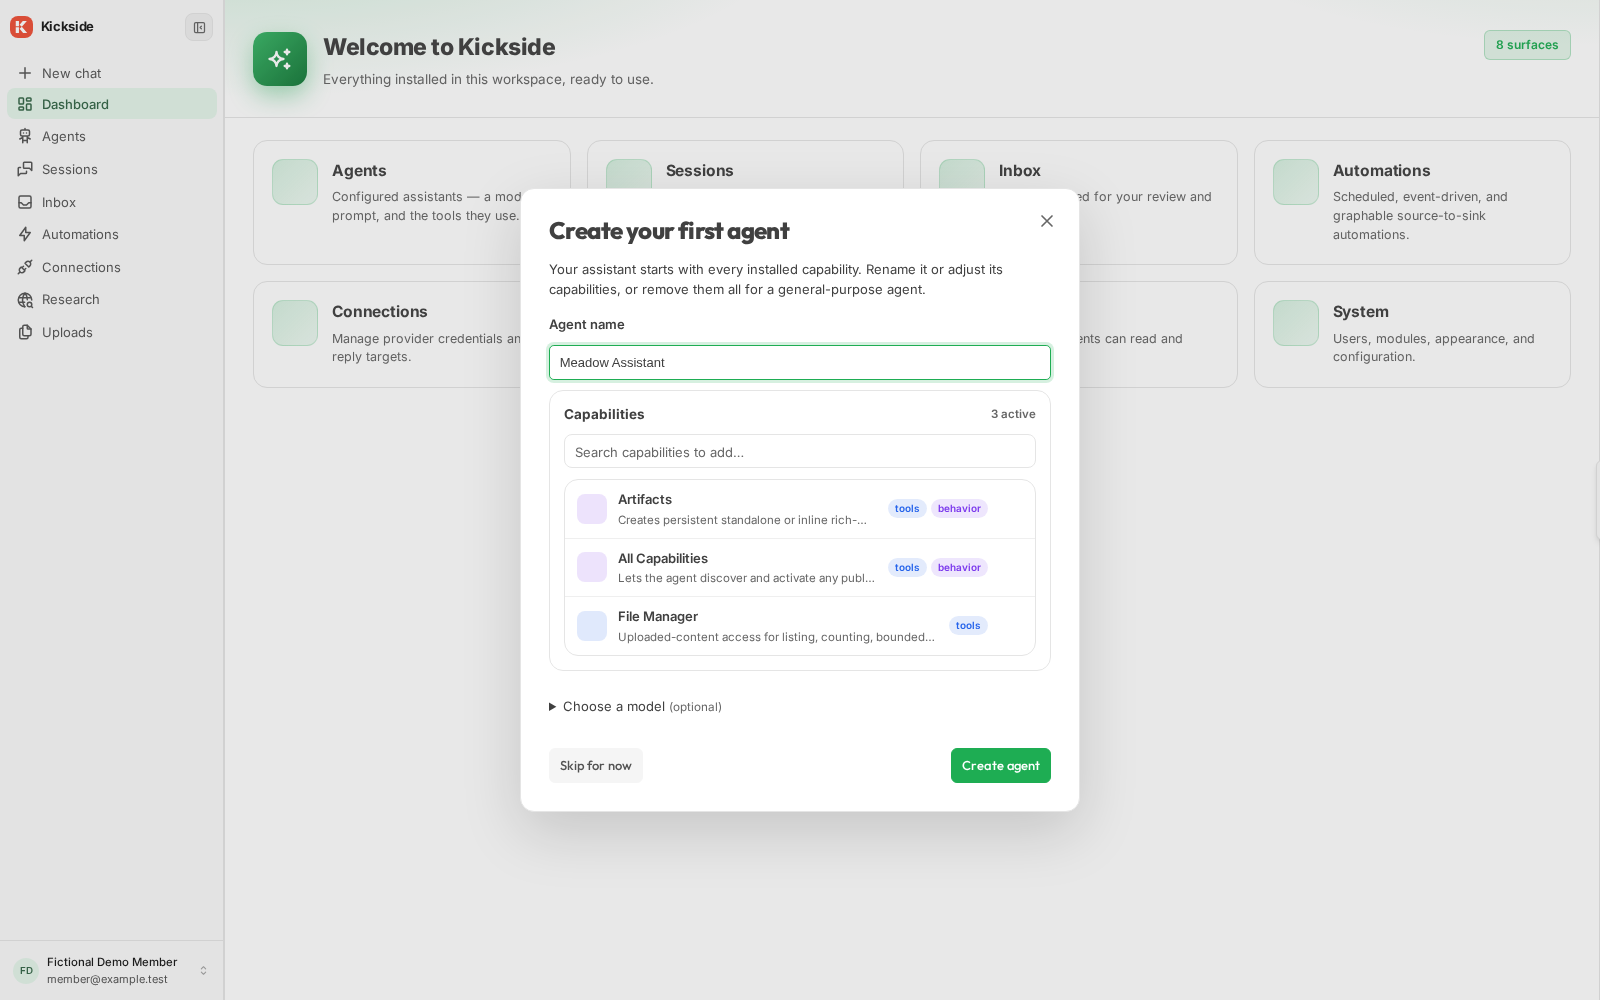
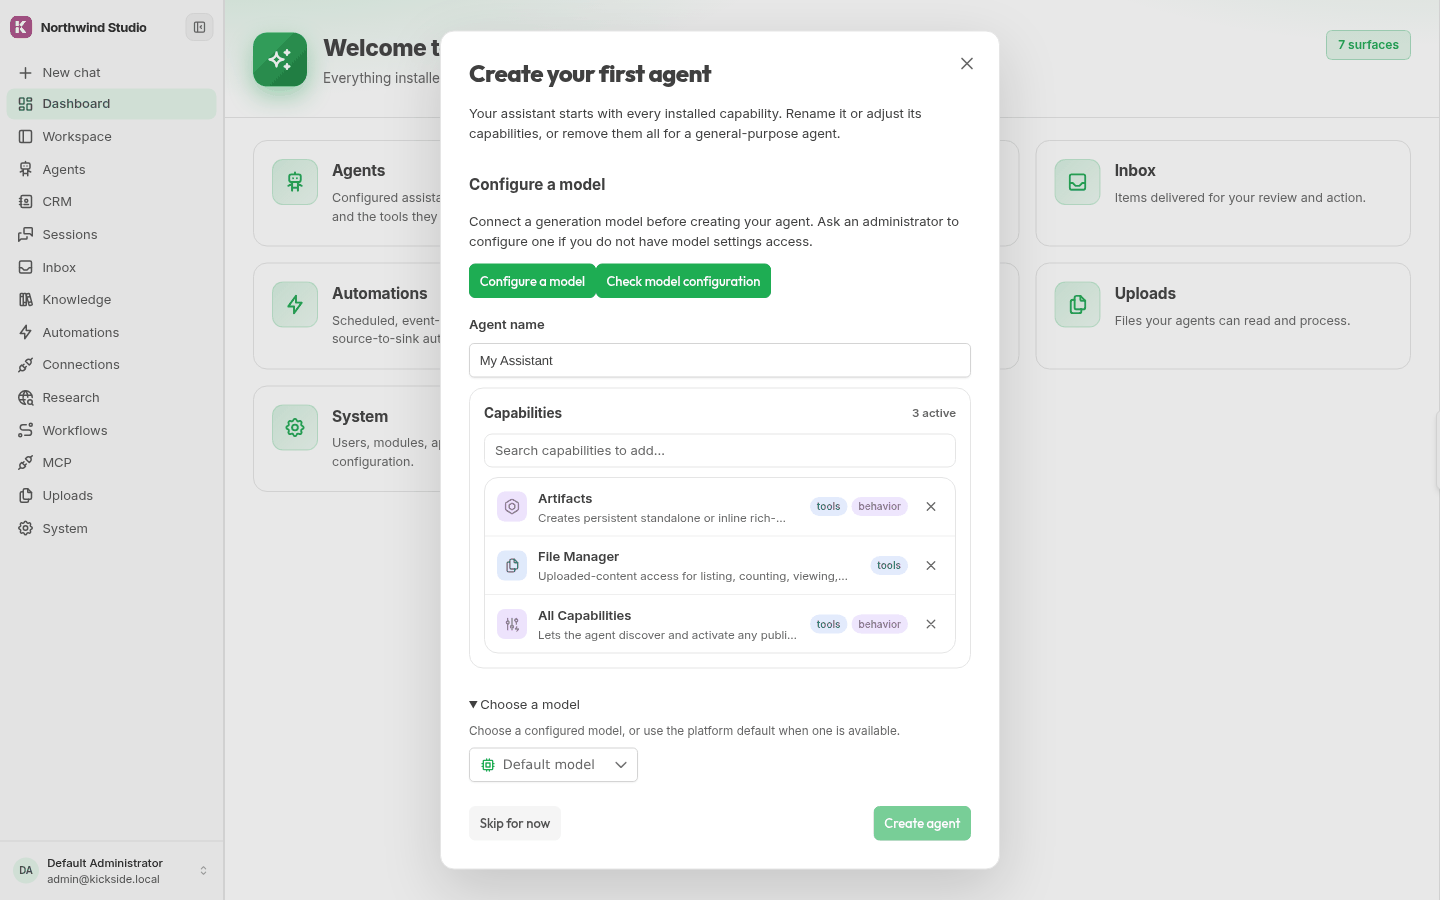
Refresh product screenshots for KickSide 0.2.13 and add README overview collages

diff --git a/using/crm.md b/using/crm.md
@@ -2,7 +2,7 @@
 
 CRM 0.4.1 provides typed records, relations, imports, search, and schema editing. A fresh CRM has an empty schema: it does not supply a company, contact, or opportunity schema by itself.
 
-The screenshots show a fictional project schema configured for a demonstration workspace.
+The screenshots show a fictional sales schema with companies, people, and deals configured for a demonstration workspace.
 
 ## Configure records
 
